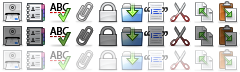
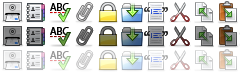
Bug 366842 - Land Pinstripe update from Tb 2.0 on the trunk, r=mscott

Changed region(s): [[0.4083, 0.8056, 0.4958, 0.9722], [0.4083, 0.4722, 0.4958, 0.6389], [0.4083, 0.1389, 0.4958, 0.3056]]

diff --git a/comm/mail/themes/pinstripe/mail/primaryToolbar.css b/comm/mail/themes/pinstripe/mail/primaryToolbar.css
@@ -235,27 +235,27 @@ toolbarbutton[type="menu-button"] > toolbarbutton {
 } 
 
 #button-goforward {
-  -moz-image-region: rect(0px 384px 32px 352px);
+  -moz-image-region: rect(0px 512px 32px 480px);
 }
 
 #button-goforward:hover:active {
-  -moz-image-region: rect(32px 384px 64px 352px);
+  -moz-image-region: rect(32px 512px 64px 480px);
 } 
 
 #button-goforward[disabled] {
-  -moz-image-region: rect(64px 384px 96px 352px) !important;
+  -moz-image-region: rect(64px 512px 96px 480px) !important;
 } 
 
 #button-goback {
-  -moz-image-region: rect(0px 416px 32px 384px);
+  -moz-image-region: rect(0px 544px 32px 512px);
 }
 
 #button-goback:hover:active {
-  -moz-image-region: rect(32px 416px 64px 384px);
+  -moz-image-region: rect(32px 544px 64px 512px);
 } 
 
 #button-goback[disabled] {
-  -moz-image-region: rect(64px 416px 96px 384px) !important;
+  -moz-image-region: rect(64px 544px 96px 512px) !important;
 } 
 
 #button-mark {
@@ -270,8 +270,6 @@ toolbarbutton[type="menu-button"] > toolbarbutton {
 #button-mark[disabled] {
   -moz-image-region: rect(64px 448px 96px 416px) !important;
 }
-
-/* temporarily re-use the mark button for tags */
 
 #button-tag {
   -moz-image-region: rect(0px 480px 32px 448px);
@@ -439,19 +437,17 @@ toolbar[iconsize="small"] #button-mark[disabled] {
   -moz-image-region: rect(48px 288px 72px 264px) !important;
 } 
 
-/* temporarily re-use the mark button for tags */
-
 toolbar[iconsize="small"] #button-tag {
-  -moz-image-region: rect(0px 288px 24px 264px);
+  -moz-image-region: rect(0px 364px 24px 340px);
 }
 
 toolbar[iconsize="small"] #button-tag:hover:active,
 toolbar[iconsize="small"] #button-tag[open] {
-  -moz-image-region: rect(24px 288px 48px 264px);
+  -moz-image-region: rect(24px 364px 48px 340px);
 } 
 
 toolbar[iconsize="small"] #button-tag[disabled] {
-  -moz-image-region: rect(48px 288px 72px 264px) !important;
+  -moz-image-region: rect(48px 364px 72px 340px) !important;
 } 
 
 toolbar[iconsize="small"] #button-previous {
@@ -479,27 +475,27 @@ toolbar[iconsize="small"] #button-next[disabled] {
 } 
 
 toolbar[iconsize="small"] #button-goback {
-  -moz-image-region: rect(0px 314px 24px 288px);
+  -moz-image-region: rect(0px 390px 24px 364px);
 }
 
 toolbar[iconsize="small"] #button-goback:hover:active {
-  -moz-image-region: rect(24px 314px 48px 288px);
+  -moz-image-region: rect(24px 390px 48px 364px);
 }
 
 toolbar[iconsize="small"] #button-goback[disabled] {
-  -moz-image-region: rect(48px 314px 72px 288px) !important;
+  -moz-image-region: rect(48px 390px 72px 364px) !important;
 }
 
 toolbar[iconsize="small"] #button-goforward {
-  -moz-image-region: rect(0px 340px 24px 314px);
+  -moz-image-region: rect(0px 416px 24px 390px);
 }
 
 toolbar[iconsize="small"] #button-goforward:hover:active {
-  -moz-image-region: rect(24px 340px 48px 314px);
+  -moz-image-region: rect(24px 416px 48px 390px);
 } 
 
 toolbar[iconsize="small"] #button-goforward[disabled] {
-  -moz-image-region: rect(48px 340px 72px 314px) !important;
+  -moz-image-region: rect(48px 416px 72px 390px) !important;
 }
 
 /* ::::: end small primary toolbar buttons ::::: */
@@ -507,10 +503,10 @@ toolbar[iconsize="small"] #button-goforward[disabled] {
 .msgNotificationBarText {
   font: icon;
   font-weight: bold;
-  padding: 0px 4px;
+  padding: 0;
 }
 
-.msgNotificaton-smallText {
+.msgNotification-smallText {
   padding-left: 10px;
   font-size: 90%;
 }
@@ -521,11 +517,9 @@ toolbar[iconsize="small"] #button-goforward[disabled] {
 }
 
 #junkBar {
-  border: 1px solid #9AC790;
-  -moz-border-radius: 7px;
   background-color: #CAE2C5;
-  padding: 3px 6px 4px 6px;
-  margin: 6px 6px 0px 6px;
+  padding: 6px 8px;
+  color: black;
 }
 
 #junkIcon {
@@ -535,31 +529,23 @@ toolbar[iconsize="small"] #button-goforward[disabled] {
 /* ::::: remote content bar status rules ::::: */
 
 #remoteContentImage {
-  list-style-image: url("chrome://global/skin/console/console-toolbar.png");
-  -moz-image-region: rect(0px, 24px, 24px, 0px);
+  list-style-image: url("chrome://messenger/skin/icons/warning.png");
 }
 
 #remoteContentBar {
-  border: 1px solid #bfc790;
-  -moz-border-radius: 7px;
   background-color: #EFF3D4;
-  padding: 3px 6px 4px 6px;
-  margin: 6px 6px 0px 6px;
+  padding: 6px 8px;
   color: black;
 }
 
 #phishingBarImage {
 /* for now, temporarily copy the remote image icon until we can get a new one */
-  list-style-image: url("chrome://global/skin/console/console-toolbar.png");
-  -moz-image-region: rect(0px, 24px, 24px, 0px);
+  list-style-image: url("chrome://messenger/skin/icons/warning.png");
 }
 
 #phishingBar {
-  border: 1px solid #bfc790;
-  -moz-border-radius: 7px;
   background-color: #EFF3D4;
-  padding: 3px 6px 4px 6px;
-  margin: 6px 6px 0px 6px;
+  padding: 6px 8px;
   color: black;
 }
 

diff --git a/comm/mail/themes/pinstripe/mail/splitter.css b/comm/mail/themes/pinstripe/mail/splitter.css
@@ -1,0 +1,79 @@
+/* ***** BEGIN LICENSE BLOCK *****
+ * Version: MPL 1.1/GPL 2.0/LGPL 2.1
+ *
+ * The contents of this file are subject to the Mozilla Public License Version
+ * 1.1 (the "License"); you may not use this file except in compliance with
+ * the License. You may obtain a copy of the License at
+ * http://www.mozilla.org/MPL/
+ *
+ * Software distributed under the License is distributed on an "AS IS" basis,
+ * WITHOUT WARRANTY OF ANY KIND, either express or implied. See the License
+ * for the specific language governing rights and limitations under the
+ * License.
+ *
+ * The Original Code is mozilla.org code.
+ *
+ * The Initial Developer of the Original Code is
+ * Netscape Communications Corporation.
+ * Portions created by the Initial Developer are Copyright (C) 1998
+ * the Initial Developer. All Rights Reserved.
+ *
+ * Contributor(s):
+ *   Joe Hewitt <hewitt@netscape.com>
+ *   Kevin Gerich (webmail@kmgerich.com)
+ *
+ * Alternatively, the contents of this file may be used under the terms of
+ * either the GNU General Public License Version 2 or later (the "GPL"), or
+ * the GNU Lesser General Public License Version 2.1 or later (the "LGPL"),
+ * in which case the provisions of the GPL or the LGPL are applicable instead
+ * of those above. If you wish to allow use of your version of this file only
+ * under the terms of either the GPL or the LGPL, and not to allow others to
+ * use your version of this file under the terms of the MPL, indicate your
+ * decision by deleting the provisions above and replace them with the notice
+ * and other provisions required by the GPL or the LGPL. If you do not delete
+ * the provisions above, a recipient may use your version of this file under
+ * the terms of any one of the MPL, the GPL or the LGPL.
+ *
+ * ***** END LICENSE BLOCK ***** */
+
+/* ===== splitter.css ===================================================
+  == Styles used by the XUL splitter element.
+  ======================================================================= */
+
+@namespace url("http://www.mozilla.org/keymaster/gatekeeper/there.is.only.xul");
+
+/* ::::: splitter (vertical) ::::: */
+
+splitter {
+  -moz-box-align: center;
+  -moz-box-pack: center;
+  cursor: ew-resize;
+  min-width: 9px;
+  min-height: 9px;
+  background: url("chrome://global/skin/splitter/splitter-vert-bg.gif") transparent repeat-y center;  
+}
+
+/* ::::: splitter (horizontal) ::::: */
+
+splitter[orient="vertical"] {
+  cursor: ns-resize;
+  min-width: 0px;
+  min-height: 9px;
+  min-width: 9px;  
+  background: url("chrome://global/skin/splitter/splitter-horiz-bg.gif") transparent repeat-x center;
+}
+
+/* ::::: splitter grippy ::::: */
+  
+grippy {
+  cursor: pointer;
+  margin: 0px 1px;
+  min-width: 5px;
+  min-height: 42px;
+}
+
+splitter[orient="vertical"] > grippy {
+  margin: 1px 0px;
+  min-width: 42px;
+  min-height: 5px;
+}

diff --git a/comm/mail/themes/pinstripe/mail/messageHeader.css b/comm/mail/themes/pinstripe/mail/messageHeader.css
@@ -63,9 +63,8 @@
 
 /* XXX: Move all of the description attributes to the toolkit */
 
-description[selectable="true"]
-{
-  margin              : 1px 5px 4px 5px;
+description {
+  margin: 0;
 }
 
 descriptionitem
@@ -130,6 +129,7 @@ description[selectable="true"]:focus > descriptionitem[selected="true"]
 #attachment-splitter {
   min-height: 7px;
   border-top: 1px solid #C8C8C8;
+  background-color: #E6E6E6;
 }
 
 /* ::::: msg header captions ::::: */
@@ -142,9 +142,13 @@ description[selectable="true"]:focus > descriptionitem[selected="true"]
 }
 
 #msgHeaderView > deck {
-  border-bottom: 1px solid #dedede;
-  margin: 6px;
-  padding: 6px 6px 10px 4px;
+  margin: 0 8px 0 8px;
+  padding: 8px 0 4px 0;
+  border-bottom: 1px solid #ccc;
+}
+
+#msgHeaderView textbox {
+  background-color: transparent;
 }
 
 .headerNameBox {
@@ -184,6 +188,13 @@ description[selectable="true"]:focus > descriptionitem[selected="true"]
 
 .headerValueBox[singleline="true"] {
   overflow: hidden;
+}
+
+#collapsedsubjectBox .collapsedHeaderDisplayName {
+  font-weight: bold;
+  color: #8f8f8f;
+  margin-top: 0;
+  -moz-margin-start: 8px;
 }
 
 .subjectvalue {

diff --git a/comm/mail/themes/pinstripe/mail/compose/messengercompose.css b/comm/mail/themes/pinstripe/mail/compose/messengercompose.css
@@ -45,6 +45,21 @@
 
 @namespace url("http://www.mozilla.org/keymaster/gatekeeper/there.is.only.xul");
 
+#compose-toolbox {
+  -moz-appearance: none !important;
+  background-image: url("chrome://messenger/skin/icons/top-toolbar-background.gif");
+  background-repeat: repeat-x;
+  background-position: top right;
+  background-color: #e1e1e1;
+}
+
+toolbox,
+toolbar {
+  -moz-appearance: none !important;
+  background-color: transparent;
+  background-image: none;
+}
+
 /* ::::: tools menu icons ::::: */
 
 .icon-mail16 {
@@ -320,11 +335,12 @@ toolbar[iconsize="small"] #paste-button[disabled="true"] {
 /* ::::: special toolbar colors ::::: */
 
 #headers-box {
-  -moz-appearance: dialog !important;
+  -moz-appearance: dialog;
 }
 
 #MsgHeadersToolbar {
   background-image: none;
+  border-bottom: 0px solid;
 }
 
 #addresses-box {

diff --git a/comm/mail/themes/pinstripe/mail/addrbook/addressbook.css b/comm/mail/themes/pinstripe/mail/addrbook/addressbook.css
@@ -47,7 +47,19 @@
 @namespace html url("http://www.w3.org/1999/xhtml");
 
 #ab-toolbox {
-   margin-bottom: -1px;
+  -moz-appearance: none !important;
+  background-image: url("chrome://messenger/skin/icons/top-toolbar-background.gif");
+  background-repeat: repeat-x;
+  background-position: top right;
+  background-color: #e1e1e1;
+  margin-top: -1px;
+}
+
+toolbox,
+toolbar {
+  -moz-appearance: none !important;
+  background-color: transparent;
+  background-image: none;
 }
 
 /* ::::: tools menu icon ::::: */

diff --git a/comm/mail/themes/pinstripe/mail/preferences/preferences.css b/comm/mail/themes/pinstripe/mail/preferences/preferences.css
@@ -51,7 +51,10 @@ prefpane {
   list-style-image: url("chrome://messenger/skin/preferences/mail-options.png");
   padding: 0 5px;
   border-bottom: 1px solid #a3a3a3;
-  background: url("chrome://global/skin/toolbar/toolbar-pinstripe-overlay.png") repeat;
+  background-image: url("chrome://messenger/skin/icons/top-toolbar-background.gif");
+  background-repeat: repeat-x;
+  background-position: top right;
+  background-color: #e1e1e1;
   margin: 0;
 }
 

diff --git a/comm/mail/themes/pinstripe/mail/mailWindow1.css b/comm/mail/themes/pinstripe/mail/mailWindow1.css
@@ -432,6 +432,8 @@ splitter {
 #threadpane-splitter {
   height: 7px !important;
   min-height: 7px;
+  background-image: url("chrome://messenger/skin/icons/threadpane-splitter-bg.gif");
+  background-repeat: repeat-x;
 }
 
 #folderpane_splitter {
